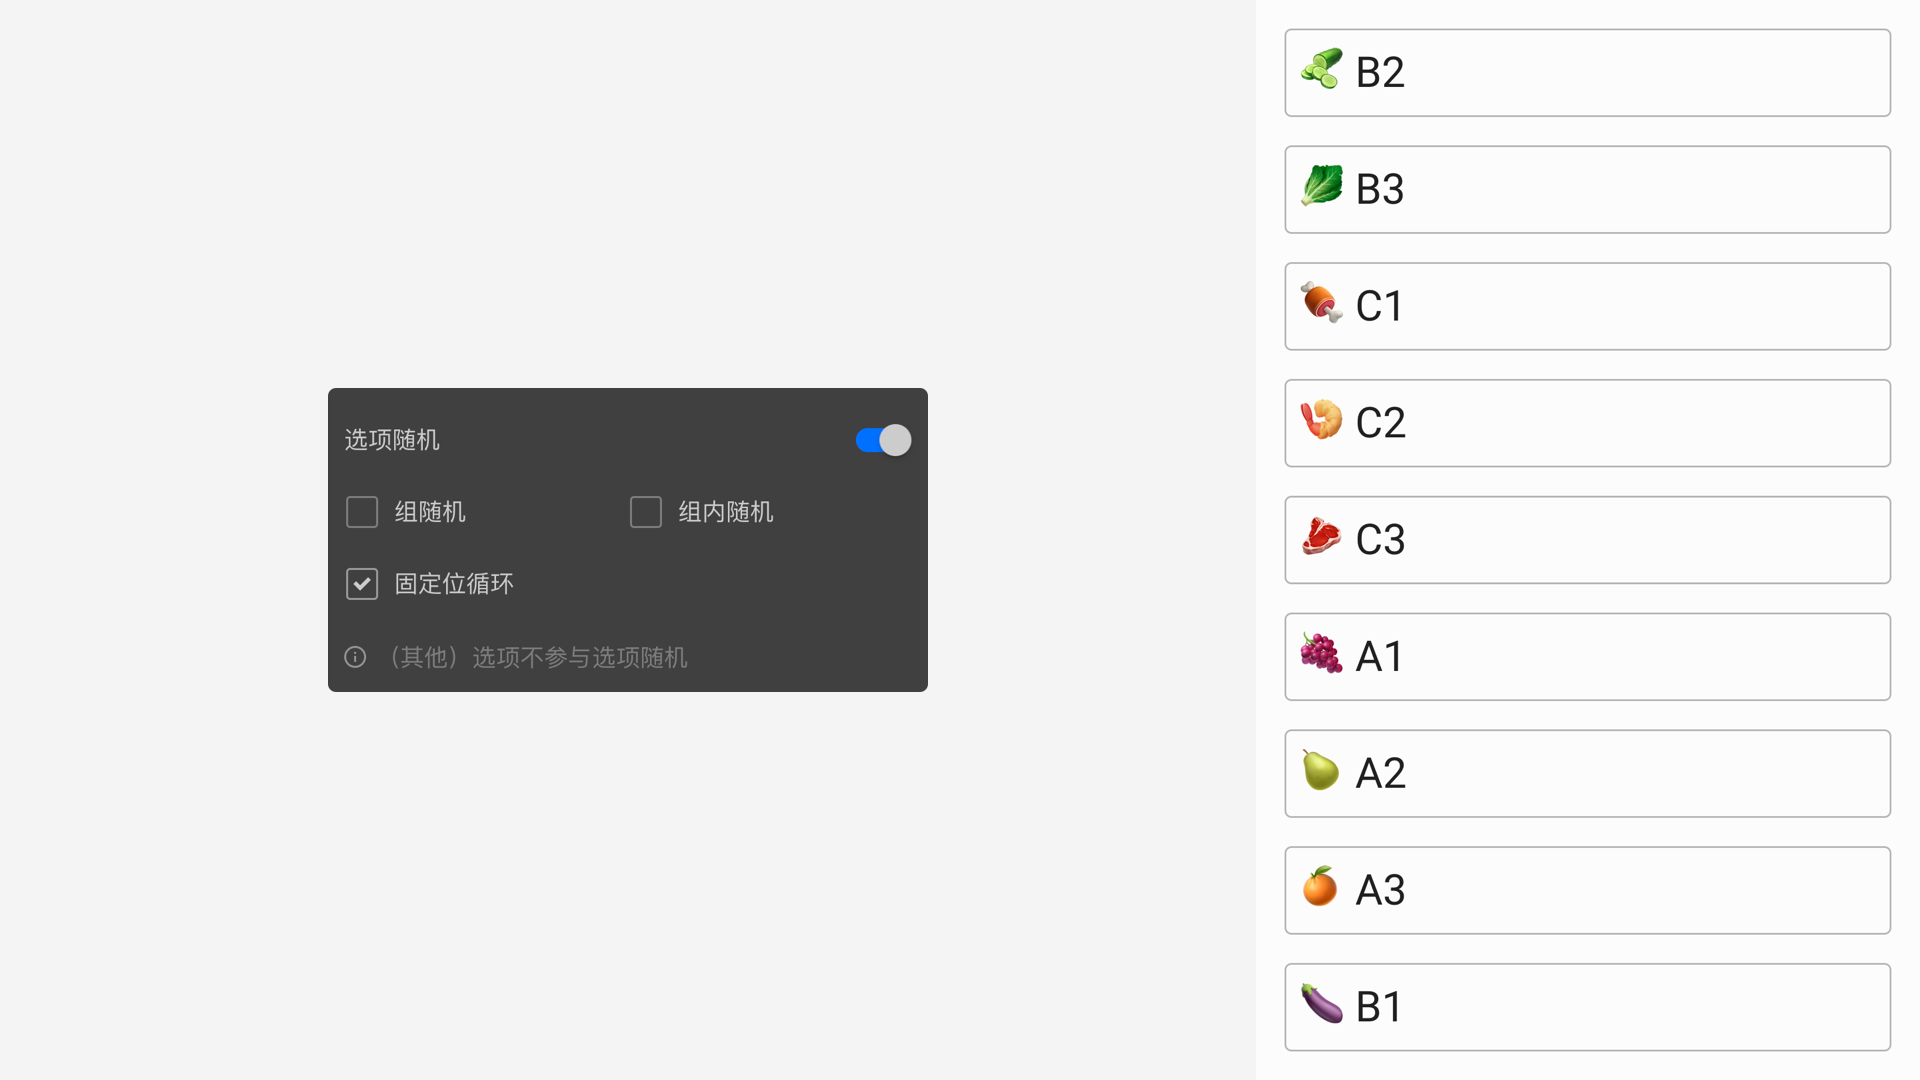
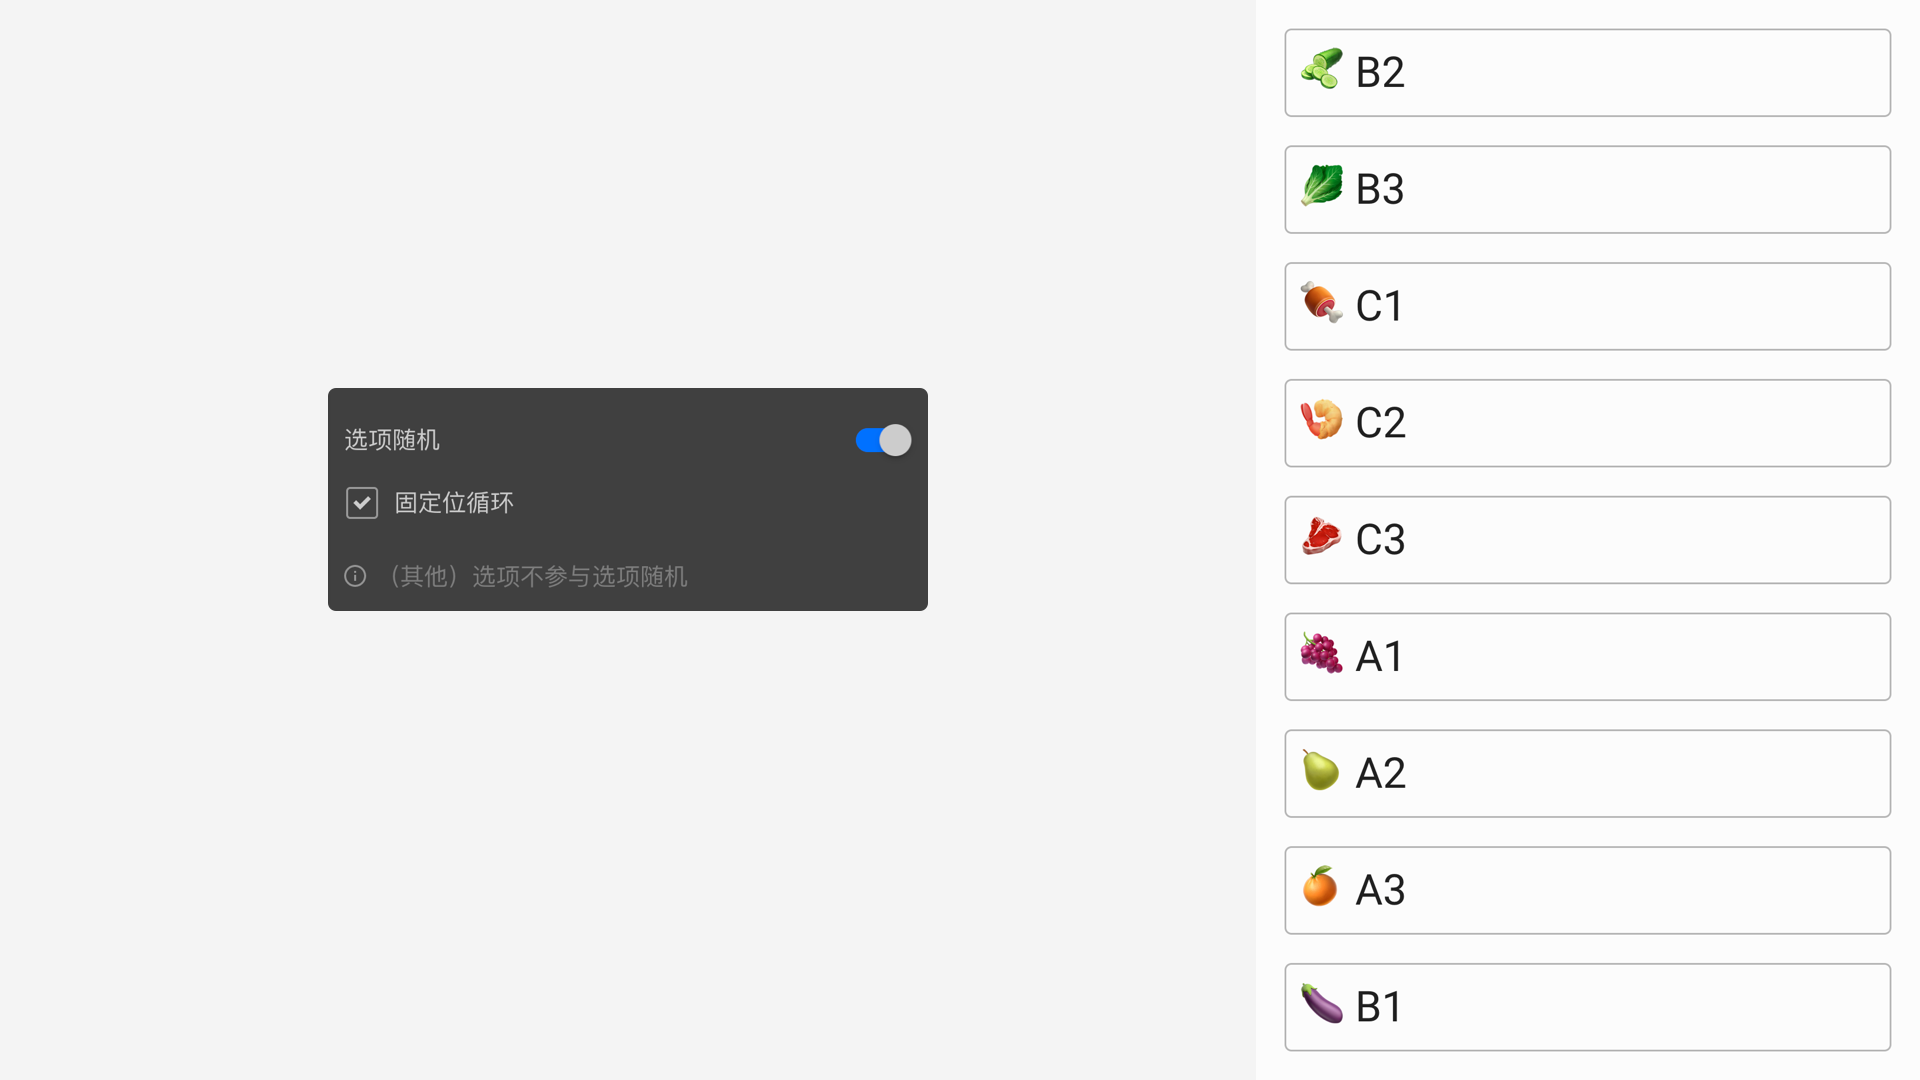
docs: remove old option group doc

Changed region(s): [[0.1562, 0.5194, 0.5, 0.6417], [0.1875, 0.4583, 0.2812, 0.4889], [0.3438, 0.4583, 0.4062, 0.4889]]

diff --git a/doc/zh-cn/11nodeSettings/05questionGeneralSetting/05randomOption.md b/doc/zh-cn/11nodeSettings/05questionGeneralSetting/05randomOption.md
@@ -17,50 +17,33 @@
 
 <img src='../assets/05questionGeneralSetting/05randomOption/randomize.png'>
 
-开启==选项随机==后，会出现四个勾选项，可指定随机策略：
-+ 组随机
-+ 组内随机
-+ 固定位循环
-+ 顺序追随引用源
-> ==顺序追随引用源==这项只有当题目使用了选项引用功能时才会出现。
-
-使用==组随机==、==组内随机==前，需要在选项设置的[选项分组](../../11nodeSettings/03optionSetting/02optionGroupAndExclude.md#选项分组)里将选项分为多个小组，分组编号相同的选项会被分到同一小组。
-
-小组的概念是为了避免随机的时候各个小组之间的选项被随机算法穿插混合在一起。==组随机==就是对这些小组进行随机，而同一个小组内的选项出现顺序完全不变。小组可以理解为一个盒子，一组选项被装在一个盒子里面。如下图所示，开启==分组==后，选项被编为3组，编号分别为1、2、3。
-
-<img src='../assets/05questionGeneralSetting/05randomOption/choices-group.png'>
+结合[选项分组](../04optionAdvancedSetting/06optionGroup.md)功能，可以实现组随机，组内随机等更复杂的随机控制。
 
 ## 组随机
-
-启用==组随机==后，这些盒子的顺序被打乱，但保证了盒子里选项永远挨在一起并保持顺序。如下图所示，1、2、3组被打乱随机显示，但小组内的选项没有被随机打乱。
-
-<img src='../assets/05questionGeneralSetting/05randomOption/group.png'>
+题目开启随机后，顶层的选项和选项分组就会被随机。
 
 ## 组内随机
 
-组内随机是对组内的选项进行随机。如下图，3个组的顺序没有变，但是组内选项的顺序发生了随机变化。
-
-<img src='../assets/05questionGeneralSetting/05randomOption/group copy.png'>
-
-==组随机==和==组内随机==可以同时开启。此时，组的位置会进行随机，而且组内的选项也会进行随机，但是仍然能保证同一个小组内的选项永远紧挨在一起。如下图，3个组的顺序和小组内选项的顺序都发生了随机变化。
-
-<img src='../assets/05questionGeneralSetting/05randomOption/within-group.png'>
-
-如果没有为选项设定分组，而开启了组随机和组内随机，那么每个选项将都被视为一个只有一个选项的组。
+在选项分组上可以选择是否使用题目的随机设置，还是使用组自身的随机设置。
 
 > 从不同的来源引用过来的[选项引用](../../11nodeSettings/04optionAdvancedSetting/01optionReference.md)，默认会各自按来源分配到不同的组中。
 
 ## 固定位循环
 
-==固定位循环==和==组随机==、==组内随机==选项不能同时开启。开启固定位循环后，就好比一个循环的队列，排在第一的人会排到最后一位，其他人的排位会往前提前一位，如此像链条一样循环往复转动。初始时，随机决定由某个选项作为起始，后面的选项会按照现有的顺序跟进，而最前面的选项会按跟在最后一个选项之后。如下图，经过几次固定为循环后，可以看到==A1==到==B1==部分，从选项队列的头部依次添加到队列尾部的效果。
+开启固定位循环后，就好比一个循环的队列，排在第一的人会排到最后一位，其他人的排位会往前提前一位，如此像链条一样循环往复转动。初始时，随机决定由某个选项作为起始，后面的选项会按照现有的顺序跟进，而最前面的选项会按跟在最后一个选项之后。如下图，经过几次固定为循环后，可以看到==A1==到==B1==部分，从选项队列的头部依次添加到队列尾部的效果。
+
+只对顶层选项或选项组生效
 
 <img src='../assets/05questionGeneralSetting/05randomOption/circulation.png'>
 
 ## 顺序追随引用源
 
-该设置只对引用选项有效，开启后，被引用过来的选项永远以引用源头展示的顺序为准。如下图，左题是一道多选题，右题选项除了==1==、==2==、==3==外，还引用了左题选项。当左题选中==A3==、==B3==、==B1==、==A2==时，右题选项就引用了来自左题的选项并自动归为一组。
+只有题目使用了引用选项才会出现这个功能，该设置只对引用选项有效，开启后，被引用过来的选项永远以引用源头展示的顺序为准。如下图，左题是一道多选题，右题选项除了==1==、==2==、==3==外，还引用了左题选项。当左题选中==A3==、==B3==、==B1==、==A2==时，右题选项就引用了来自左题的选项并自动归为一组。
 
 <img src='../assets/05questionGeneralSetting/05randomOption/order-follows.png'>
+
+## 例外情况
+如果某事选项设置了[置顶置底](../03optionSetting/07optionPosition.md)功能，则他们不参与随机。
 
 > [其他选项](../../13otherOption/01otherOption.md)不会参与随机，永远位于选项队列的最后。
 

diff --git a/doc/zh-cn/11nodeSettings/03optionSetting/02optionExclude.md b/doc/zh-cn/11nodeSettings/03optionSetting/02optionExclude.md
@@ -1,7 +1,7 @@
 ---
   index: 2
-  tags: [选项分组, 选项排他, 选项设置, 节点设置]
-  summary: 可以对选项进行分组，并且设定不同分组间的互斥排他特性。
+  tags: [选项排他, 选项设置, 节点设置]
+  summary: 设定不同选项间的互斥排他特性。
 
 
 ---
@@ -11,21 +11,13 @@
 
 
 
-# 选项分组和排他
-
-## 选项分组
-
-开启==分组==开关，打开选项分组输入框。相同分组编号的选项为同一组。
-
-<img src='../assets/03optionSetting/02optionGroupAndExclude/group.png'>
-
-选项分组主要在[选项随机](../../11nodeSettings/05questionGeneralSetting/05randomOption.md)中的组随机中使用。
+# 选项排他
 
 # 选项排他
 
 在多选题中，有时选项间会存在一种互相排斥的关系。当选了某个选项时，另外一个就不应该被选中，这时候就要用到==选项排他==功能。
 
-<img src='../assets/03optionSetting/02optionGroupAndExclude/section.png'>
+<img src='../assets/03optionSetting/02optionExclude/section.png'>
 
 因为单选题不存在互斥的可能性，因此只有多选题才能显示==选项排他==设置。开启==多选题==后，打开选项的[附加设置](../../11nodeSettings/03optionSetting/06additionalSetting.md)，就能看到==选项排他==设置框。点击设置框右边的箭头按钮切换设定不同的排他模式：
 
@@ -37,14 +29,14 @@
 
 代表互斥编号，可设定为1-9之间的数值，当该选项被选中时，会排除与自己互斥编号相同的选项以及==EXC==的选项；
 
-<img src='../assets/03optionSetting/02optionGroupAndExclude/group-exclusive.png'>
+<img src='../assets/03optionSetting/02optionExclude/group-exclusive.png'>
 
 如下图，选项排他编号相同的选项间具有互相排斥的关系。
 
-<img src='../assets/03optionSetting/02optionGroupAndExclude/nodes-icon.png'>
+<img src='../assets/03optionSetting/02optionExclude/nodes-icon.png'>
 
 ## EXC
 
 表示该选项与所有其他选项排斥，只要选中该选项，其他任何选项都自动会被取消选中，当选中任何其他选项时，这个选项也会自动被取消选中。
 
-<img src='../assets/03optionSetting/02optionGroupAndExclude/exclusive.png'>
+<img src='../assets/03optionSetting/02optionExclude/exclusive.png'>

diff --git a/doc/zh-cn/14customValidation/03build-inLogicValidation.md b/doc/zh-cn/14customValidation/03build-inLogicValidation.md
@@ -23,6 +23,6 @@
 + 必答题：必须输入一些答案，不能直接跳过。[参考](../11nodeSettings/05questionGeneralSetting/01required.md)
 + 单选题：永远只能选择一项。
 + 多选题：只能选中指定数量范围内的选项数目。[参考](../11nodeSettings/05questionGeneralSetting/02multiChoice.md)
-+ 排他设置：设置过排他的选项，互相排斥的两个选项不能同时被选中。[参考](../11nodeSettings/03optionSetting/02optionGroupAndExclude.md)
++ 排他设置：设置过排他的选项，互相排斥的两个选项不能同时被选中。[参考](../11nodeSettings/03optionSetting/02optionExclude.md)
 + 最小输入项限制：对于打分题，填空题，可以限制最小输入项限制。[参考](../11nodeSettings/05questionGeneralSetting/03inputLimits.md)
 + 填空内容：对于填空题和其他选项的备注栏，可以验证输入内容。[参考](../11nodeSettings/03optionSetting/04inputValidation.md)

diff --git a/doc/zh-cn/10nodes/questionnaireNodes/01multiple-choice.md b/doc/zh-cn/10nodes/questionnaireNodes/01multiple-choice.md
@@ -37,7 +37,7 @@
 ==选项备注==与==其他==选项的==选项+备注方式==非常类似，区别是==其他==选项的==选项+备注方式==支持输入验证。
 
 + 选项排他
-当开启==多选题==后，选项设置中还可以设置[选项排他](../../11nodeSettings/03optionSetting/02optionGroupAndExclude.md)。
+当开启==多选题==后，选项设置中还可以设置[选项排他](../../11nodeSettings/03optionSetting/02optionExclude.md)。
 
 ## 布局设置
 

diff --git a/doc/zh-cn/11nodeSettings/concept.md b/doc/zh-cn/11nodeSettings/concept.md
@@ -44,7 +44,7 @@
 ## 题目选项设置
 
 + [选项编号](./03optionSetting/01optionNumber.md)
-+ [选项分组和排他](./03optionSetting/02optionGroupAndExclude.md)
++ [选项分组和排他](./03optionSetting/02optionExclude.md)
 + [选项备注](./03optionSetting/03optionComment.md)
 + [输入验证](./03optionSetting/04inputValidation.md)
 + [预设选项](./03optionSetting/05presetingOption.md)

diff --git a/doc/zh-cn/11nodeSettings/04optionAdvancedSetting/06optionGroup.md b/doc/zh-cn/11nodeSettings/04optionAdvancedSetting/06optionGroup.md
@@ -1,6 +1,6 @@
 ---
   index: 6
-  tags: [选项分组, 组内随机，组随机]
+  tags: [选项分组, 组内随机, 组随机]
 
 
 ---
